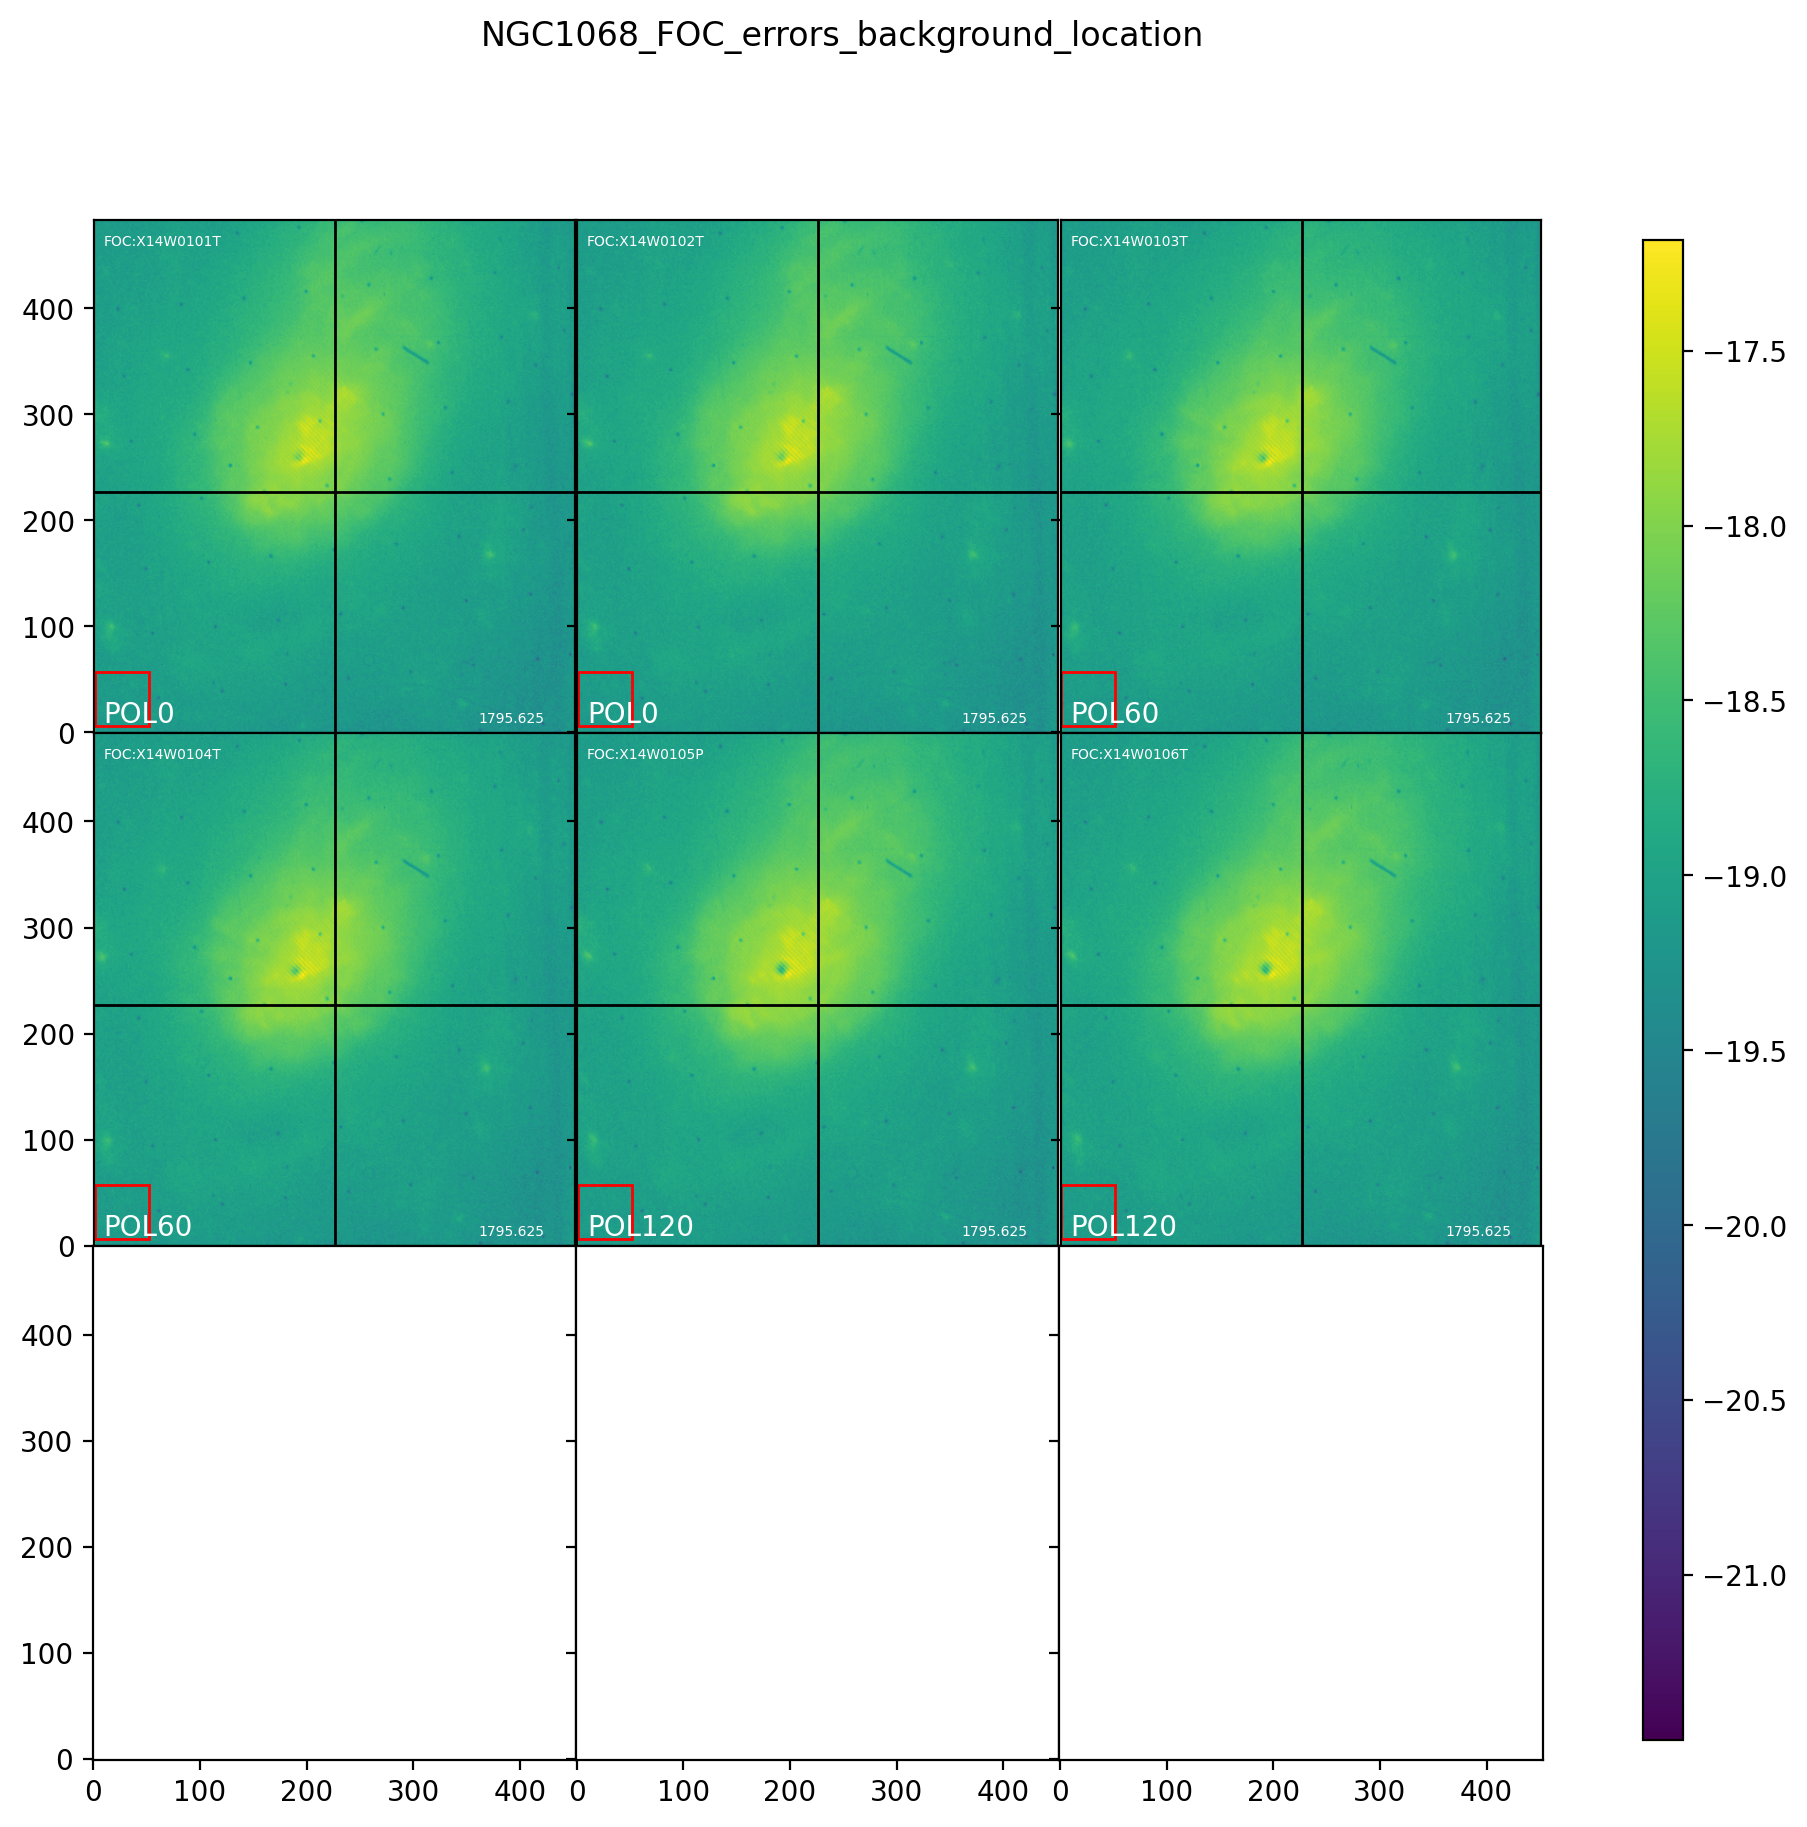
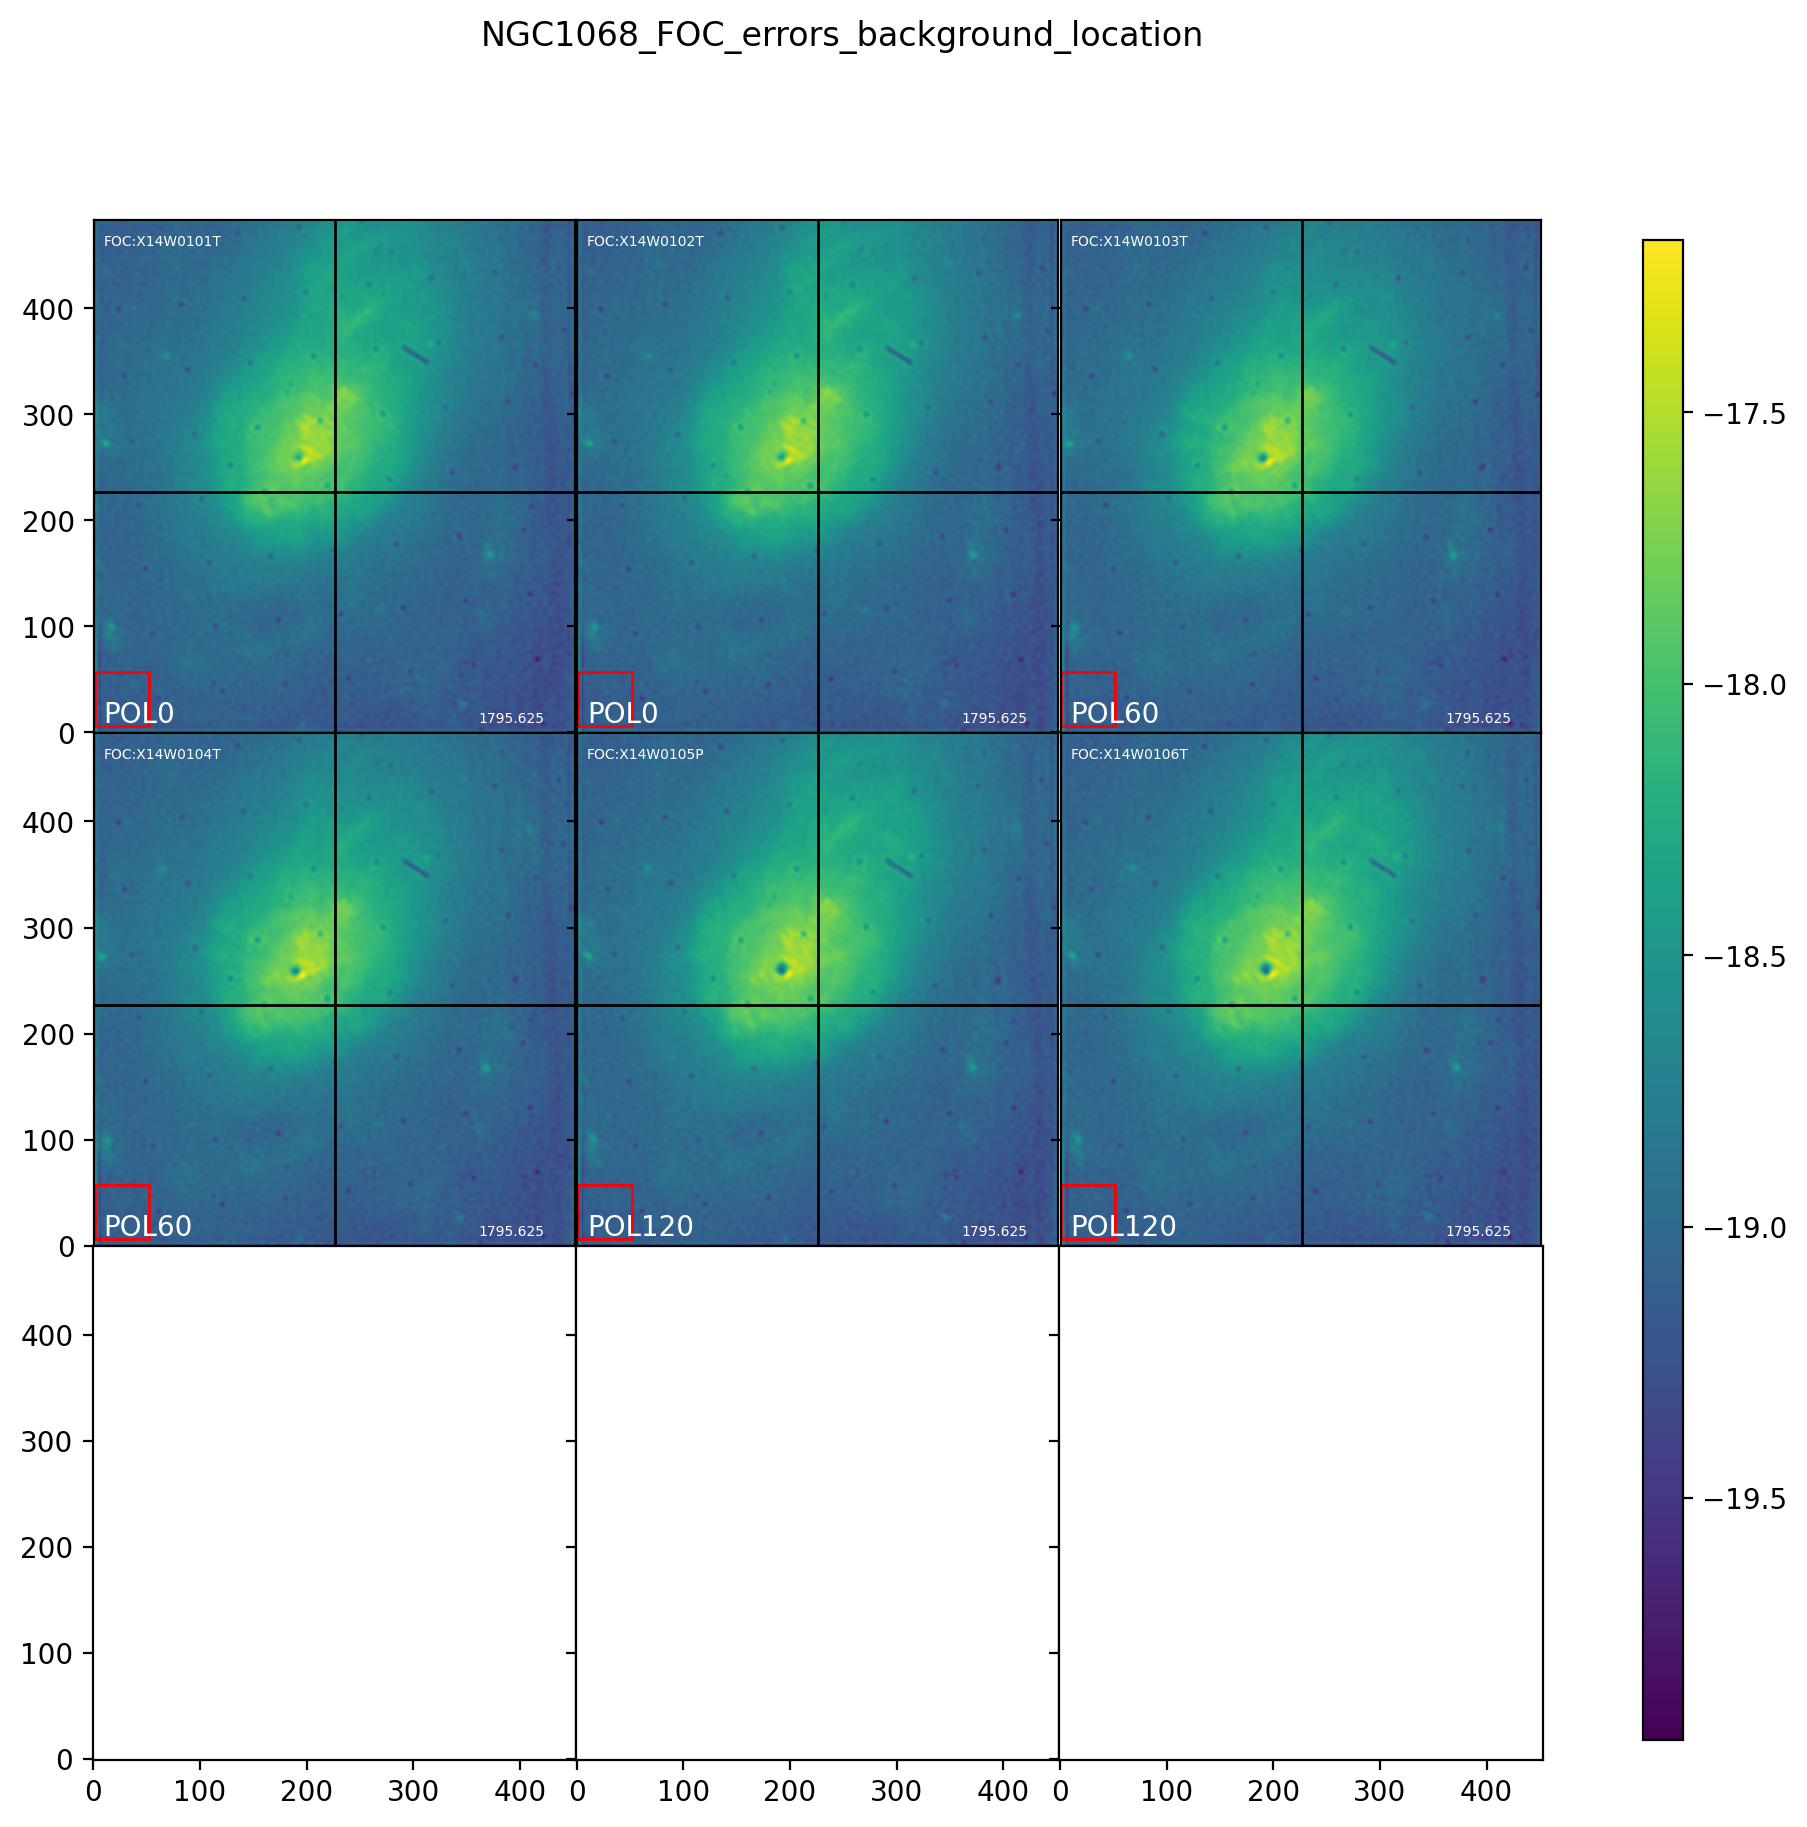
test again rotation and deconvolution

diff --git a/src/FOC_reduction.py b/src/FOC_reduction.py
@@ -16,11 +16,11 @@ import lib.plots as proj_plots      #Functions for plotting data
 def main():
     ##### User inputs
     ## Input and output locations
-#    globals()['data_folder'] = "../data/NGC1068_x274020/"
-#    infiles = ['x274020at.c0f.fits','x274020bt.c0f.fits','x274020ct.c0f.fits',
-#            'x274020dt.c0f.fits','x274020et.c0f.fits','x274020ft.c0f.fits',
-#            'x274020gt.c0f.fits','x274020ht.c0f.fits','x274020it.c0f.fits']
-#    globals()['plots_folder'] = "../plots/NGC1068_x274020/"
+    globals()['data_folder'] = "../data/NGC1068_x274020/"
+    infiles = ['x274020at.c0f.fits','x274020bt.c0f.fits','x274020ct.c0f.fits',
+            'x274020dt.c0f.fits','x274020et.c0f.fits','x274020ft.c0f.fits',
+            'x274020gt.c0f.fits','x274020ht.c0f.fits','x274020it.c0f.fits']
+    globals()['plots_folder'] = "../plots/NGC1068_x274020/"
 
 #    globals()['data_folder'] = "../data/NGC1068_x14w010/"
 #    infiles = ['x14w0101t_c0f.fits','x14w0102t_c0f.fits','x14w0103t_c0f.fits',
@@ -34,13 +34,13 @@ def main():
 #    infiles = ['x1360601t_c1f.fits','x1360602t_c1f.fits','x1360603t_c1f.fits']
 #    globals()['plots_folder'] = "../plots/3C405_x136060/"
 
-    globals()['data_folder'] = "../data/CygnusA_x43w0/"
-    infiles = ['x43w0101r_c0f.fits', 'x43w0104r_c0f.fits', 'x43w0107r_c0f.fits',
-            'x43w0201r_c0f.fits', 'x43w0204r_c0f.fits', 'x43w0102r_c0f.fits',
-            'x43w0105r_c0f.fits', 'x43w0108r_c0f.fits', 'x43w0202r_c0f.fits',
-            'x43w0205r_c0f.fits', 'x43w0103r_c0f.fits', 'x43w0106r_c0f.fits',
-            'x43w0109r_c0f.fits', 'x43w0203r_c0f.fits', 'x43w0206r_c0f.fits']
-    globals()['plots_folder'] = "../plots/CygnusA_x43w0/"
+#    globals()['data_folder'] = "../data/CygnusA_x43w0/"
+#    infiles = ['x43w0101r_c0f.fits', 'x43w0104r_c0f.fits', 'x43w0107r_c0f.fits',
+#            'x43w0201r_c0f.fits', 'x43w0204r_c0f.fits', 'x43w0102r_c0f.fits',
+#            'x43w0105r_c0f.fits', 'x43w0108r_c0f.fits', 'x43w0202r_c0f.fits',
+#            'x43w0205r_c0f.fits', 'x43w0103r_c0f.fits', 'x43w0106r_c0f.fits',
+#            'x43w0109r_c0f.fits', 'x43w0203r_c0f.fits', 'x43w0206r_c0f.fits']
+#    globals()['plots_folder'] = "../plots/CygnusA_x43w0/"
 
     ## Reduction parameters
     # Deconvolution
@@ -50,29 +50,29 @@ def main():
         psf_FWHM = 0.10
         psf_scale = 'arcsec'
         psf_shape=(9,9)
-        iterations = 10
+        iterations = 5
     # Error estimation
-    error_sub_shape = (100,100)
+    error_sub_shape = (50,50)
     display_error = False
     # Data binning
     rebin = True
     if rebin:
-        pxsize = 0.30
+        pxsize = 0.10
         px_scale = 'arcsec'         #pixel or arcsec
         rebin_operation = 'sum'     #sum or average
     # Alignement
-    align_center = 'image'        #If None will align image to image center
+    align_center = 'maxflux'        #If None will align image to image center
     display_data = False
     # Smoothing
     smoothing_function = 'combine'  #gaussian or combine
     smoothing_FWHM = 2           #If None, no smoothing is done
     smoothing_scale = 'pixel'       #pixel or arcsec
     # Rotation
-    rotate = False                  #rotation to North convention can give erroneous results
+    rotate = True                  #rotation to North convention can give erroneous results
     rotate_library = 'scipy'        #scipy or pillow
     # Polarization map output
-    figname = 'CygnusA_FOC'         #target/intrument name
-    figtype = '_combine_FWHM2'    #additionnal informations
+    figname = 'NGC1068_FOC'         #target/intrument name
+    figtype = '_combine_FWHM2_rot2'    #additionnal informations
     SNRp_cut = 3    #P measurments with SNR>3
     SNRi_cut = 30   #I measurments with SNR>30, which implies an uncertainty in P of 4.7%.
     step_vec = 1    #plot all vectors in the array. if step_vec = 2, then every other vector will be plotted
